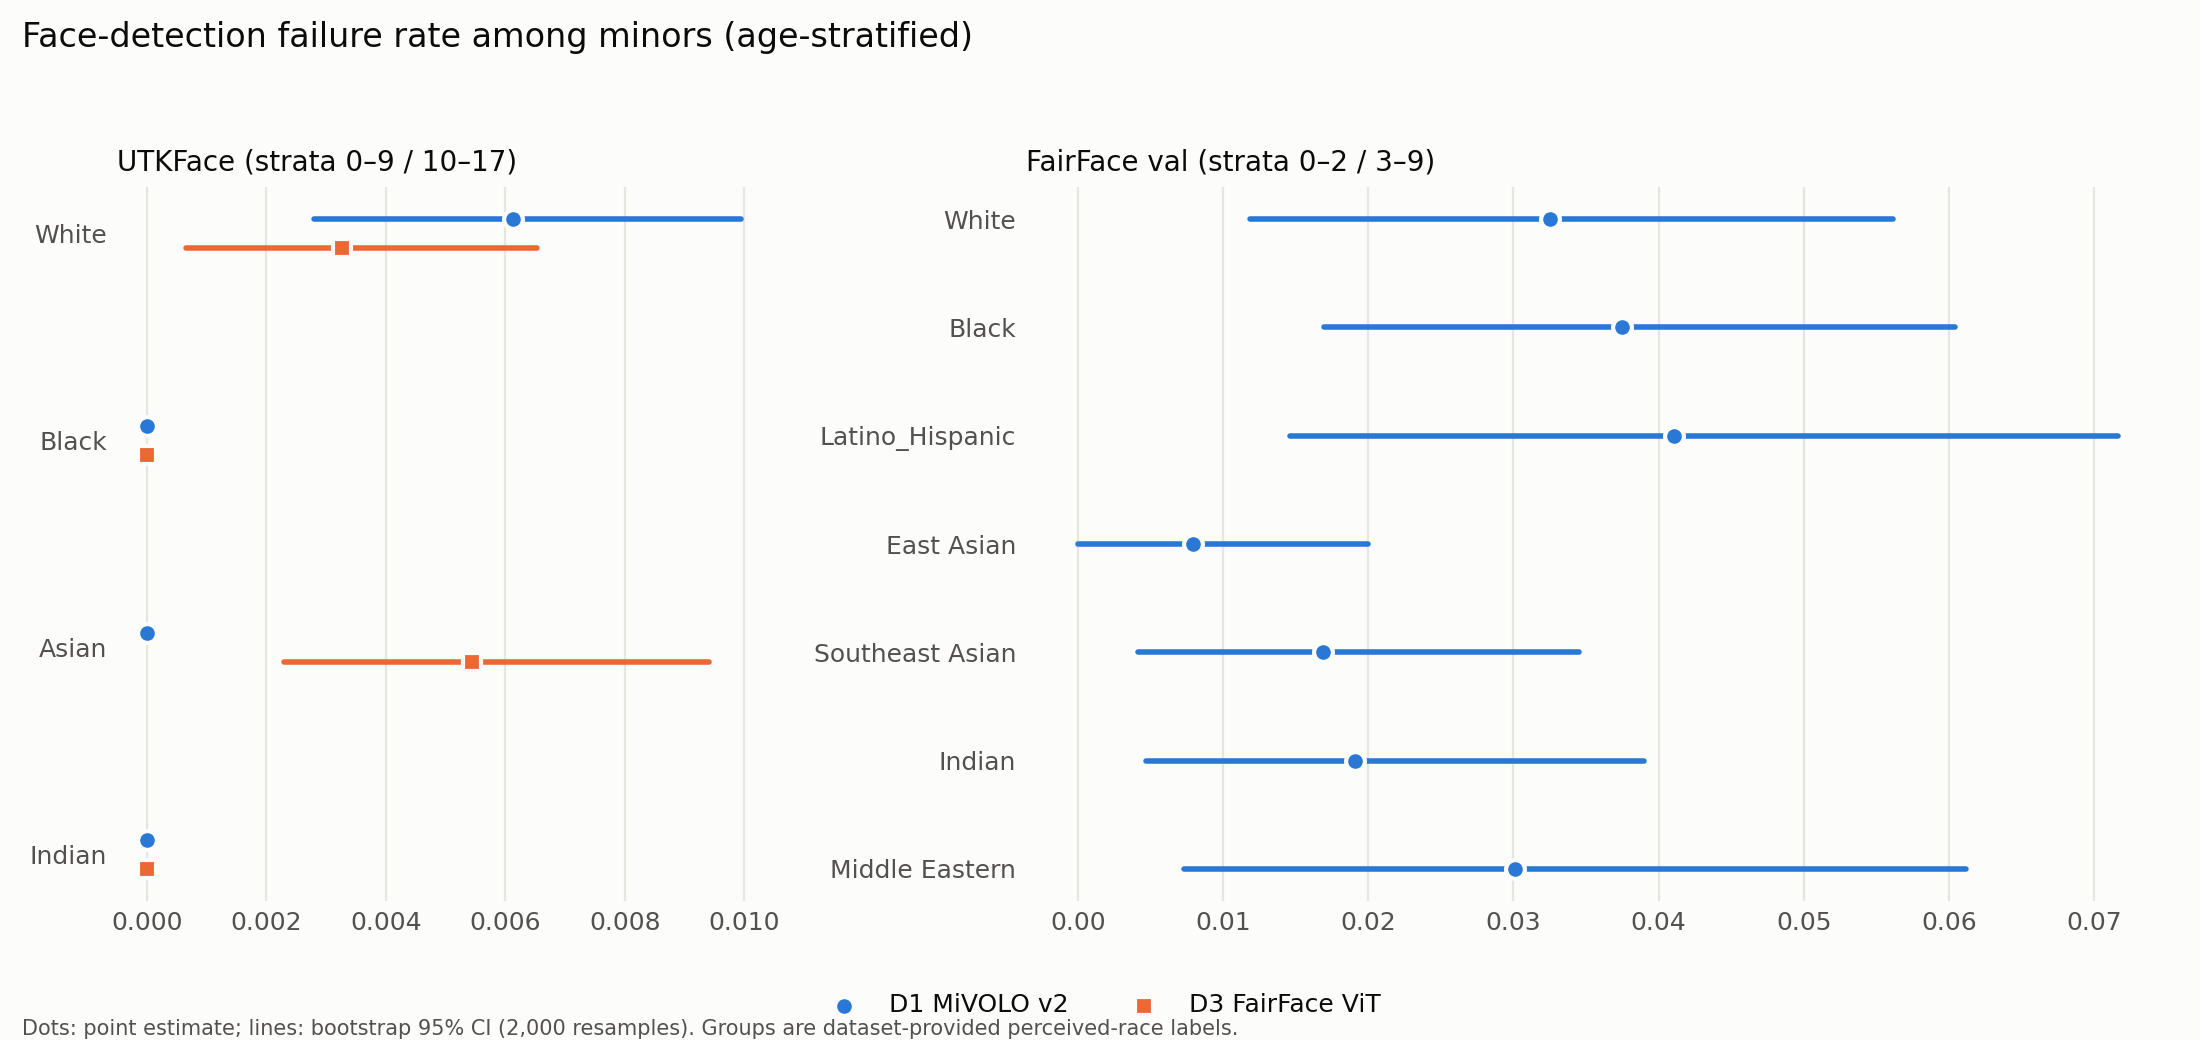
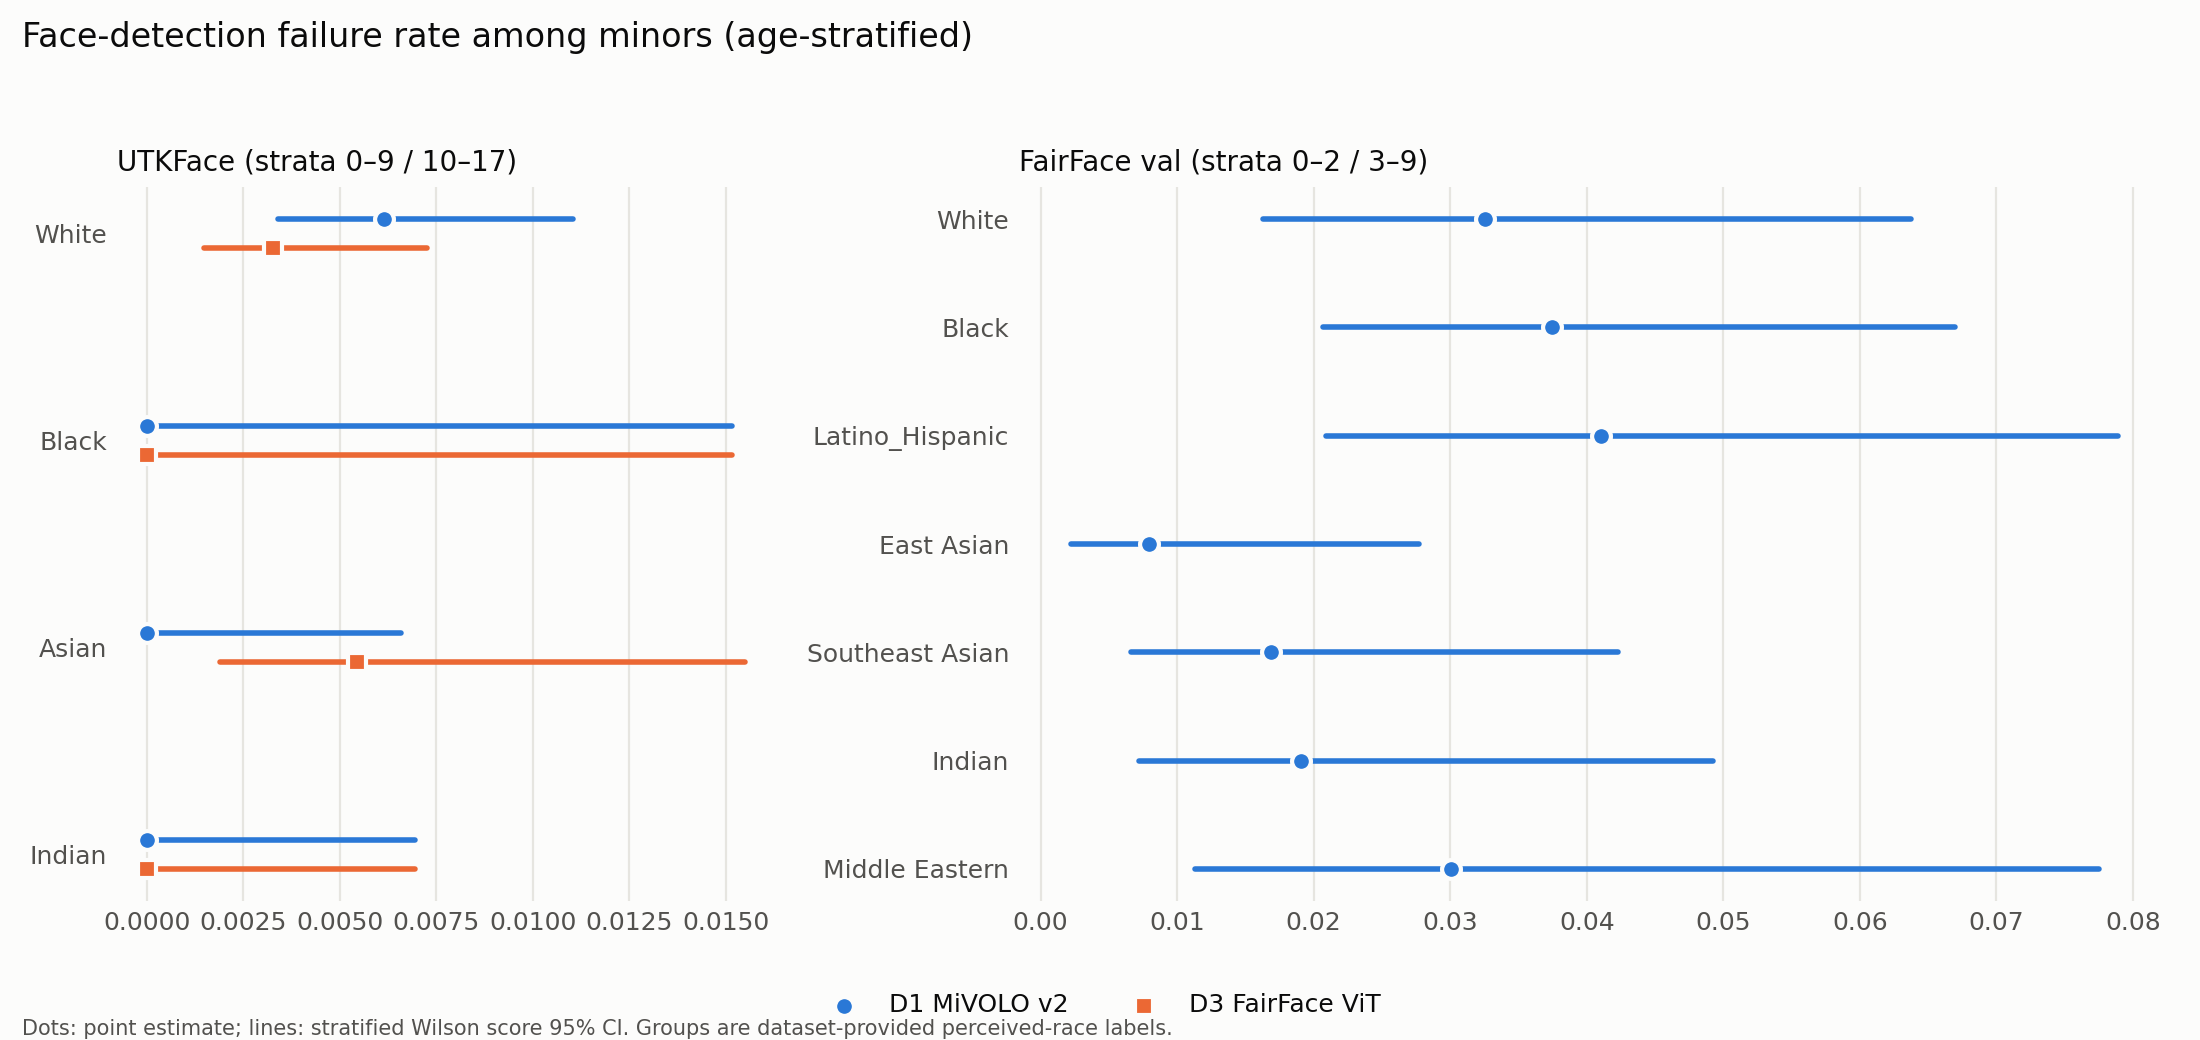
Phase 1 results rerun with Wilson face-fail CIs; report updated
Analysis at b9b2dc9. Only face-fail CIs and the face-fail figure changed;
all other values identical to bf45ebf.

diff --git a/docs/PHASE1_REPORT.md b/docs/PHASE1_REPORT.md
@@ -1,7 +1,7 @@
 # Phase 1 Report: Controlled pilot on face crops (DRAFT for Isaac's review)
 
 **Status:** draft, 2026-11-03. Pilot on cropped, aligned faces, which are easier than real filtering conditions. This is a pilot, not the claim.
-**Provenance:** analysis at commit `095dac0` (clean); detector runs at `74ae7b6` (D1, D3, D4) and `095dac0` (D5), all clean; preregistration frozen at `2e92b8b` before any full run. Sources: `results/phase1/primary_endpoint.json`, `results/phase1/metrics_<detector>_<dataset>.json`, `results/phase1/runs/*.json`. Groups are dataset-provided perceived-race labels.
+**Provenance:** analysis at commit `56c3fb5` (clean); detector runs at `74ae7b6` (D1, D3, D4) and `095dac0` (D5), all clean; preregistration frozen at `2e92b8b` before any full run. Sources: `results/phase1/primary_endpoint.json`, `results/phase1/metrics_<detector>_<dataset>.json`, `results/phase1/runs/*.json`. Groups are dataset-provided perceived-race labels.
 
 ## Primary endpoint: age-stratified TPR gap, White − Black (minors)
 
@@ -23,7 +23,7 @@ n minors White / Black: UTKFace 1,856 / 280; FairFace 240 / 281. *D5 on the prer
 
 ## Three findings
 1. **On UTKFace, every detector misses Black minors more often than White minors**, by 4 to 10 points after age stratification. The gap sits mostly in the 10–17 stratum: TPR White vs Black is 0.807 vs 0.563 (D1), 0.925 vs 0.659 (CLIP B/32), 0.859 vs 0.556 (CLIP L/14), 0.800 vs 0.579 (D5). In the 0–9 stratum the differences are 0.000 to 0.034. After adjusting for age, brightness and blur (plus face size for D1), the Black vs White odds ratio for being flagged stays below 1 for D1 (0.32 [0.20, 0.51]), CLIP B/32 (0.19 [0.12, 0.32]), CLIP L/14 (0.19 [0.12, 0.30]) and D5 (0.53 [0.30, 0.94]). It does not for D3 (0.81 [0.52, 1.24]).
-2. **The mechanism looks like age over-estimation, not missed faces (H2b yes, H2a no).** Among detected minors, MiVOLO over-estimates Black children's age more than White children's: by +1.52 years [0.95, 2.28] on UTKFace and by +1.23 [0.83, 1.63] on FairFace (bin midpoints, approximate). The same holds for D3 on UTKFace (+0.72 [0.14, 1.43]). All three have permutation p ≤ 0.009. Face-detection failure is not higher for Black minors. On UTKFace, MiVOLO found a face in all 280 Black minor images (White failure rate 0.006). On FairFace, the Black − White difference is 0.005 [−0.028, 0.036].
+2. **The mechanism looks like age over-estimation, not missed faces (H2b yes, H2a no).** Among detected minors, MiVOLO over-estimates Black children's age more than White children's: by +1.52 years [0.95, 2.28] on UTKFace and by +1.23 [0.83, 1.63] on FairFace (bin midpoints, approximate). The same holds for D3 on UTKFace (+0.72 [0.14, 1.43]). All three have permutation p ≤ 0.009. Face-detection failure is not higher for Black minors. On UTKFace, MiVOLO found a face in all 280 Black minor images (White failure rate 0.006). The Black − White difference is −0.006 [−0.011, 0.009] on UTKFace and 0.005 [−0.031, 0.039] on FairFace (Newcombe score CIs).
 3. **Fixing the gap with per-group thresholds is costly (H5).** Raising Black TPR to the global operating point on UTKFace raises the share of Black adults (20–59) wrongly flagged as children: D1 0.005 → 0.074, CLIP B/32 0.043 → 0.560, CLIP L/14 0.008 → 0.297, D5 0.025 → 0.220 (D3, not a preregistered H5 detector: 0.022 → 0.126). Adult FPR already differs by group without any threshold change (H3, χ² p < 0.05, uncorrected) in 6/9 runs. On FairFace, Black adults are flagged more often than White adults: D1 0.078 vs 0.018, CLIP B/32 0.102 vs 0.062, CLIP L/14 0.037 vs 0.018.
 
 ## Caveats
@@ -31,7 +31,7 @@ n minors White / Black: UTKFace 1,856 / 280; FairFace 240 / 281. *D5 on the prer
 - **The two datasets test different ages.** The UTKFace gap is concentrated in 10–17, an age range FairFace cannot test, because its minors are 0–9 only and the 10–19 bin is excluded. So the FairFace null result is not evidence against a teenage gap. This reading was not preregistered; treat it as interpretation.
 - **Small cells:** only 280 Black minors in UTKFace, 126 of them aged 10–17. UTKFace ages and race labels are known to be noisy.
 - **Model substitutions:** D3 is a FairFace-trained ViT substitute (the original weights are gone). Its expected-age rule over-estimates age in every group (+4.5 to +5.4 years), so its absolute TPR is low. MiVOLO v2's training data is partly proprietary, so overlap with UTKFace can't be ruled out. D5 ran on a subsample, which gives wider CIs.
-- **Analysis artefacts to fix before the paper:**
-  - When a group has zero face failures, the bootstrap CI collapses to [0, 0]. So the UTKFace face-fail gap CIs exclude 0 even though permutation p = 0.29 (D1) and 0.66 (D3). Use p_perm, or switch to a Wilson/Jeffreys interval (needs your OK).
+- **Post-hoc change (logged in PREREGISTRATION.md Deviations):** face-fail CIs are stratified Wilson intervals, and the gap uses Newcombe's interval. The preregistered bootstrap collapsed to [0, 0] for groups with zero failures, which made the UTKFace gap CI wrongly exclude 0 (permutation p = 0.29 for D1, 0.66 for D3). The bootstrap CIs are still stored as `*_boot`; no other number changed.
+- **Analysis limits:**
   - The D1 FairFace logit did not converge (quasi-separation; ORs up to 10⁹), so it can't be interpreted.
   - For D1 on FairFace, the target TPR is out of reach for White, Black and Latino_Hispanic, because no-face images can never be flagged.

diff --git a/CLAUDE.md b/CLAUDE.md
@@ -19,7 +19,7 @@ Child-safety filtering of text-to-image training data relies on automated child 
 - Colab (GPU) for the VLM detector (D5) and full-dataset runs; Drive holds data and results, as in `~/federated-subset-scanning-pads` (`scripts/config.py` ENV pattern).
 
 ## Current status
-- 2026-11-03: Phase 1 complete pending review. All runs + phase14 analysis done; `docs/PHASE1_REPORT.md` drafted. Results/figures/report committed and pushed at Isaac's request. Wilson face-fail CIs coded (uncommitted); needs commit+push, then Isaac reruns phase14 on Colab → Claude updates report. Repo still public.
+- 2026-11-03: Phase 1 complete pending review. All runs + phase14 analysis done; `docs/PHASE1_REPORT.md` drafted. Results/figures/report committed and pushed at Isaac's request. Wilson CIs in (56c3fb5), phase14 rerun pulled, report updated and committed. STOP: waiting for Isaac's report review. Repo still public.
 
 ## Open questions for Isaac
 - Access to ICCWD (ask Crețu / authors) for Phase 2.
@@ -99,3 +99,4 @@ Child-safety filtering of text-to-image training data relies on automated child 
 | 2026-11-03 | Claude (Phase 1) | Issues found: bootstrap CI collapses to [0,0] for zero-count face-fail groups (UTK face-fail gap CI excludes 0 while p_perm 0.29) → needs Wilson/Jeffreys fix, Isaac's call; D1/FairFace confounder logit not converged (separation). Drafted `docs/PHASE1_REPORT.md`. STOP for review |
 | 2026-11-03 | Claude (Phase 1) | Isaac approved: committed + pushed Phase 1 results, figures, PHASE1_REPORT, OVERNIGHT_LOG |
 | 2026-11-03 | Claude (Phase 1) | Wilson/Newcombe face-fail CIs in `src/analysis/metrics.py`, figure caption updated, `tests/test_wilson.py` (textbook Wilson + Newcombe 1998 example) PASS, synthetic test PASS. Old vs new on synthetic S2: 1,064 values compared, only face-fail CIs changed (RNG stream preserved). Preview from committed JSONs: UTK face-fail B−W gap CI MiVOLO [−0.011, 0.009], D3 [−0.007, 0.012] (were [−0.010, −0.003], [−0.007, −0.001]); FF MiVOLO [−0.031, 0.039]. Final numbers need phase14 rerun |
+| 2026-11-03 | Isaac (Colab) / Claude | phase14 rerun at 56c3fb5 (clean). Zip 377,658 B, sha256 6120eb12…. Diff vs 5276b7c: 3,369 values compared, only face-fail CIs changed (17 group CIs, 3 gap CIs) + new keys (*_boot, ci_method, n_eff); *_boot equals old CIs; only fdr figure differs. Newcombe B−W face-fail gap: UTK D1 [−0.011, 0.009], D3 [−0.007, 0.012], FF D1 [−0.031, 0.039] (= preview). Report updated |
